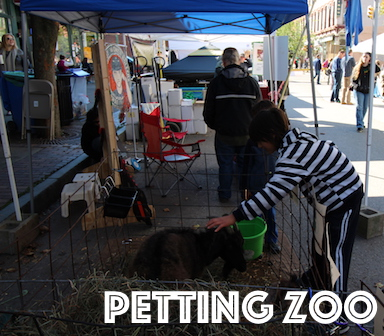
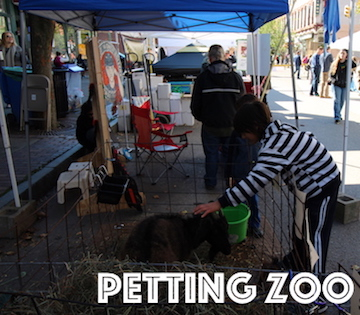
changes

diff --git a/css/site.css b/css/site.css
@@ -485,17 +485,19 @@ button:hover {
 }
 
 #attractions {
-    margin-left:1em;
-    margin-right:1em;
+    margin:0;
+    margin:auto;
+    text-align: center;
 }
 
-#attractions > img {
-    display: inline;
-    margin-left: 8em;
-    margin-top: 3em;
+.attractionrow {
+    display:inline;
+    width:90%;
+}
+
+.attractionrow > img {
     border: 8px darksalmon outset;
-    width: 33%;
-    height: 33%;
+    margin-top: 4em;
 }
 
 #mustsee {
@@ -701,7 +703,7 @@ td:hover a {
     }
 
     /* Attractions */
-    
+
     #attractioncontent {
         margin: 0;
         margin: auto;

diff --git a/attractions.php b/attractions.php
@@ -27,16 +27,15 @@
 
           <img src="images/zoo.jpg" alt="Petting Zoo">
           <!-- Image Credits: Edited by Rona Chang: https://flic.kr/p/pg4P7o-->
-
         </div>
 
         <div class ="attractionrow">
-          <img src="images/concert.jpg" alt="Live Concert">
+          <img src="images/liveconcert.jpg" alt="Live Concert">
           <!-- Image Credits: Edited by Rona Chang: http://www.ithaca.edu/depts/gallery_img/16036_full.jpg-->
 
           <img src="images/localproduce.jpg" alt="Local Produce">
             <!-- Image Credits: Edited by Rona Chang: http://visitmayberry.com/wp-content/uploads/2014/10/fall2.jpg-->
-          <img src="images/ride.jpg" alt="Ferris Wheel">
+          <img src="images/rides.jpg" alt="Ferris Wheel">
           <!--Image Credits: Edited by Rona Chang: https://flic.kr/p/pg4iWm-->
         </div>
 
